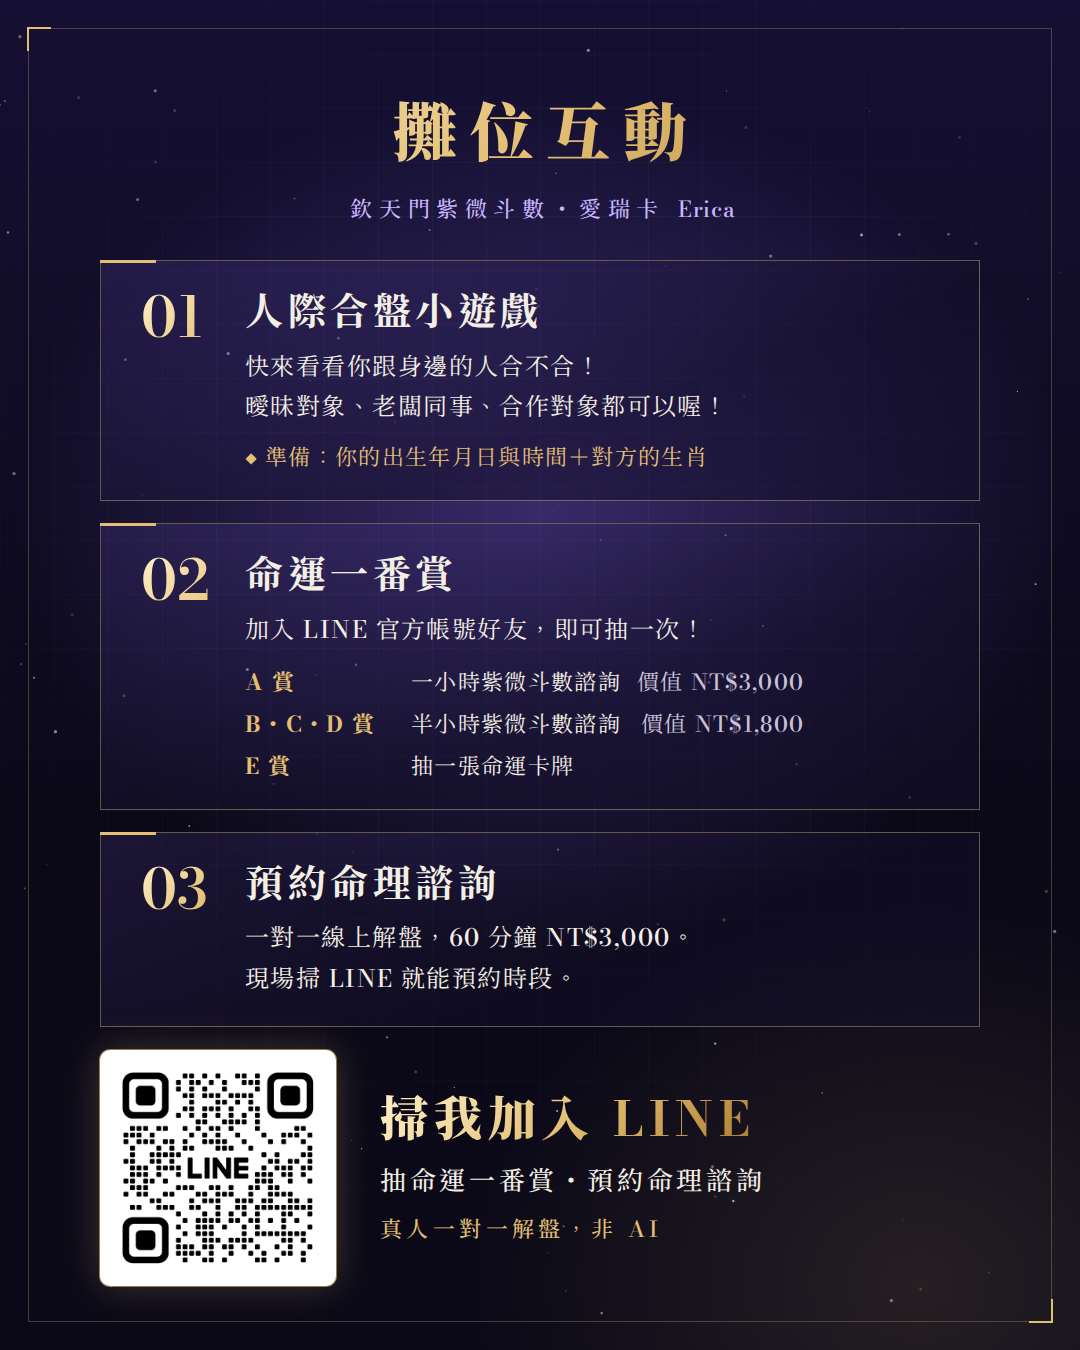
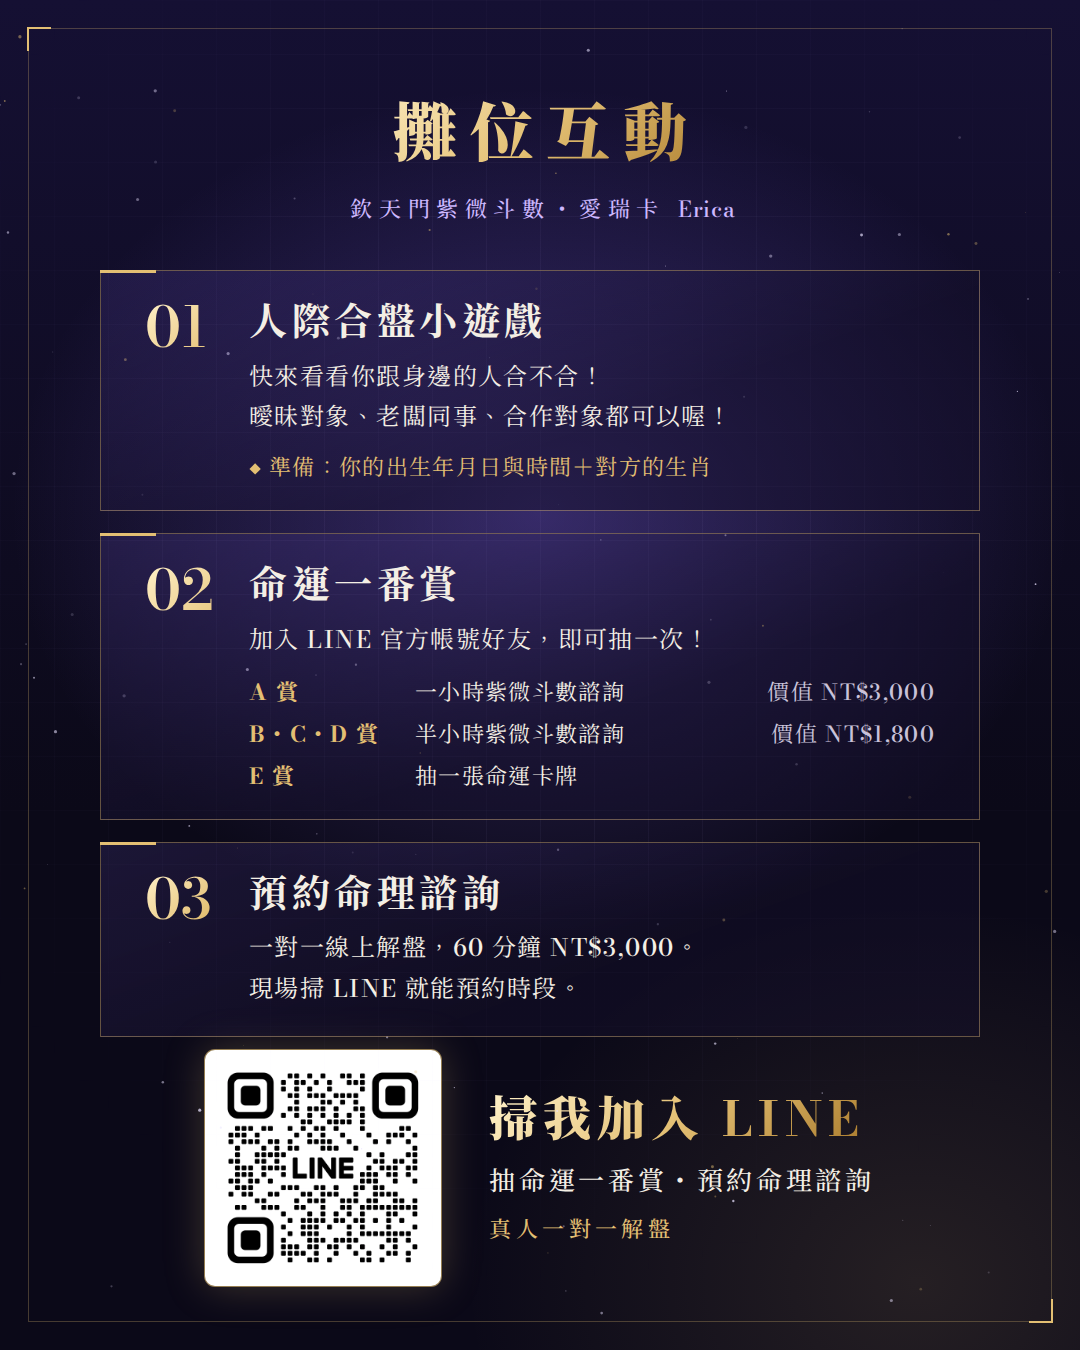
Booth sign: centered layout, drop 非 AI, add white A4 print version
- Rebuild as a flex column so content centers; QR bar centered and
  prize values right-aligned across the card
- QR tagline now just 真人一對一解盤
- New game-a4.png: white background, print-safe colors, 2480x3508
  (A4 at 300dpi) from game.html?print
- Renderer supports per-page file, query and output scale

Claude-Session: https://claude.ai/code/session_01WeWVZ5r8UiL42UXgK61AKB

diff --git a/line-oa/design/game.html b/line-oa/design/game.html
@@ -4,19 +4,20 @@
 <link href="https://fonts.googleapis.com/css2?family=Chiron+Sung+HK:wght@300;400;500;700;900&family=Bodoni+Moda:wght@500;600;700&display=swap" rel="stylesheet">
 <style>
 /* 字體沿用主宣傳圖：中文昭源宋體，英文與數字 Bodoni Moda
-   字級：標題 64 ／ 編號 56 ／ QR 標語 48 ／ 玩法名稱 38 ／ 說明 24・26 ／ 小字 22 */
-.canvas{width:1080px;height:1350px;font-family:'Bodoni Moda','Chiron Sung HK',serif}
-.canvas .vane-branch{font-family:'Chiron Sung HK',serif}
-.canvas .compass-labels text{font-family:'Bodoni Moda',serif;font-weight:600;font-size:15px}
-.head{position:absolute;top:84px;left:0;right:0;text-align:center}
-.icon{width:150px;height:180px;margin:0 auto 4px}
+   字級：標題 64 ／ 編號 56 ／ QR 標語 48 ／ 玩法名稱 38 ／ 說明 24・26 ／ 小字 22
+   版面：直向 flex，網頁版 1080×1350；加 ?print 為白底 A4（1080×1528，輸出 2480×3508） */
+.canvas{width:1080px;height:1350px;font-family:'Bodoni Moda','Chiron Sung HK',serif;
+  display:flex;flex-direction:column;align-items:center;padding:84px 100px 64px}
+.head{text-align:center}
 .head h1{font-weight:900;font-size:64px;letter-spacing:.2em;padding-left:.2em}
 .head p{margin-top:10px;font-size:22px;font-weight:500;letter-spacing:.3em;padding-left:.3em;color:var(--violet-lt)}
-.list{position:absolute;left:100px;right:100px;top:260px;display:flex;flex-direction:column;gap:22px}
-.item{position:relative;display:flex;gap:32px;padding:28px 40px 26px;
-  border:1px solid rgba(227,191,115,.4);background:linear-gradient(160deg,rgba(139,108,255,.13),rgba(20,15,42,.5) 60%)}
+.head p span{letter-spacing:.04em}
+.list{width:100%;margin-top:44px;display:flex;flex-direction:column;gap:22px}
+.item{position:relative;display:flex;gap:32px;padding:28px 44px 26px;
+  border:1px solid var(--card-line);background:var(--card-bg)}
 .item::before{content:"";position:absolute;left:-1px;top:-1px;width:56px;height:3px;background:var(--gold)}
 .num{flex:none;width:72px;font-weight:600;font-size:56px;line-height:1}
+.body{flex:1}
 .body h2{font-size:38px;font-weight:700;letter-spacing:.12em;line-height:1.2}
 .body p{margin-top:12px;font-size:24px;line-height:1.7;letter-spacing:.06em;color:var(--ink)}
 .body .need{margin-top:12px;font-size:22px;letter-spacing:.06em;color:var(--gold)}
@@ -25,22 +26,33 @@
 .prizes div{display:grid;grid-template-columns:150px 1fr auto;align-items:baseline;gap:16px;font-size:22px;letter-spacing:.06em}
 .prizes b{font-weight:700;color:var(--gold)}
 .prizes em{font-style:normal;color:var(--ink-mid)}
-.qrbar{position:absolute;left:100px;right:100px;bottom:64px;display:flex;align-items:center;gap:44px}
-.qr{flex:none;width:236px;height:236px;padding:12px;background:#fff;border-radius:10px;box-shadow:0 0 0 1px rgba(227,191,115,.6),0 0 40px rgba(227,191,115,.25)}
+.qrbar{margin-top:auto;display:flex;align-items:center;justify-content:center;gap:48px}
+.qr{flex:none;width:236px;height:236px;padding:12px;background:#fff;border-radius:10px;box-shadow:var(--qr-shadow)}
 .qr img{width:100%;height:100%;display:block}
 .qrtext h2{font-size:48px;font-weight:900;letter-spacing:.12em;line-height:1.2}
 .qrtext p{margin-top:14px;font-size:26px;font-weight:500;letter-spacing:.14em;color:var(--ink)}
 .qrtext small{display:block;margin-top:12px;font-size:22px;font-weight:500;letter-spacing:.2em;color:var(--gold)}
-.foot{position:absolute;left:70px;right:70px;bottom:70px;display:flex;justify-content:space-between;align-items:baseline}
-.foot div{font-size:22px;font-weight:500;letter-spacing:.2em;color:var(--gold)}
-</style></head>
+:root{--card-line:rgba(227,191,115,.4);--card-bg:linear-gradient(160deg,rgba(139,108,255,.13),rgba(20,15,42,.5) 60%);
+  --qr-shadow:0 0 0 1px rgba(227,191,115,.6),0 0 40px rgba(227,191,115,.25)}
+/* 白底列印版 */
+html.print,html.print body{background:#fff}
+.print{--ink:#1c1726;--ink-mid:#5a5366;--violet-lt:#5b4a9e;--gold-lt:#c9a24e;--gold:#9a7518;--gold-dk:#6e5210;
+  --card-line:rgba(154,117,24,.45);--card-bg:#faf7f0;--qr-shadow:0 0 0 1.5px rgba(154,117,24,.7)}
+.print .canvas{height:1528px;background:#fff;color:var(--ink);padding:110px 100px 96px}
+.print .canvas::before,.print .stars{display:none}
+.print .frame{border-color:rgba(154,117,24,.45)}
+.print .list{margin-top:60px;gap:30px}
+.print .item{padding:34px 44px 32px}
+</style>
+<script>if (location.search.includes('print')) document.documentElement.classList.add('print');</script>
+</head>
 <body>
 <div class="canvas">
   <div class="stars" style="position:absolute;inset:0" data-seed="31" data-dipper="0"></div>
   <div class="frame"></div>
   <div class="head">
     <h1 class="gold-text">攤位互動</h1>
-    <p>欽天門紫微斗數・愛瑞卡 <span style="letter-spacing:.04em">Erica</span></p>
+    <p>欽天門紫微斗數・愛瑞卡 <span>Erica</span></p>
   </div>
   <div class="list">
     <div class="item">
@@ -76,9 +88,9 @@
     <div class="qrtext">
       <h2 class="gold-text">掃我加入 LINE</h2>
       <p>抽命運一番賞・預約命理諮詢</p>
-      <small>真人一對一解盤，非 AI</small>
+      <small>真人一對一解盤</small>
     </div>
   </div>
 </div>
-<script src="stars.js"></script><script src="vane.js"></script>
+<script src="stars.js"></script>
 </body></html>

diff --git a/line-oa/README.md b/line-oa/README.md
@@ -10,7 +10,8 @@
 | `price.png` | 1080×1350 | 價目表：LINE 圖文訊息、自動回覆 |
 | `avatar.png` | 640×640 | LINE 官方帳號大頭貼 |
 | `cover.png` | 1080×878 | LINE 官方帳號主頁封面 |
-| `game.png` | 1080×1350 | 活動攤位互動看板 |
+| `game.png` | 1080×1350 | 活動攤位互動看板（手機展示） |
+| `game-a4.png` | 2480×3508 | 攤位互動看板白底 A4 列印版（300dpi） |
 
 設計主軸是風向標。傳統風向標上的公雞改成金色燕子，用低多邊形切面做出科技感。外圈是十二地支環，子在正北、卯在正東、午在正南、酉在正西，方位都對。背景用紫微的紫色，再加上北斗七星。
 
